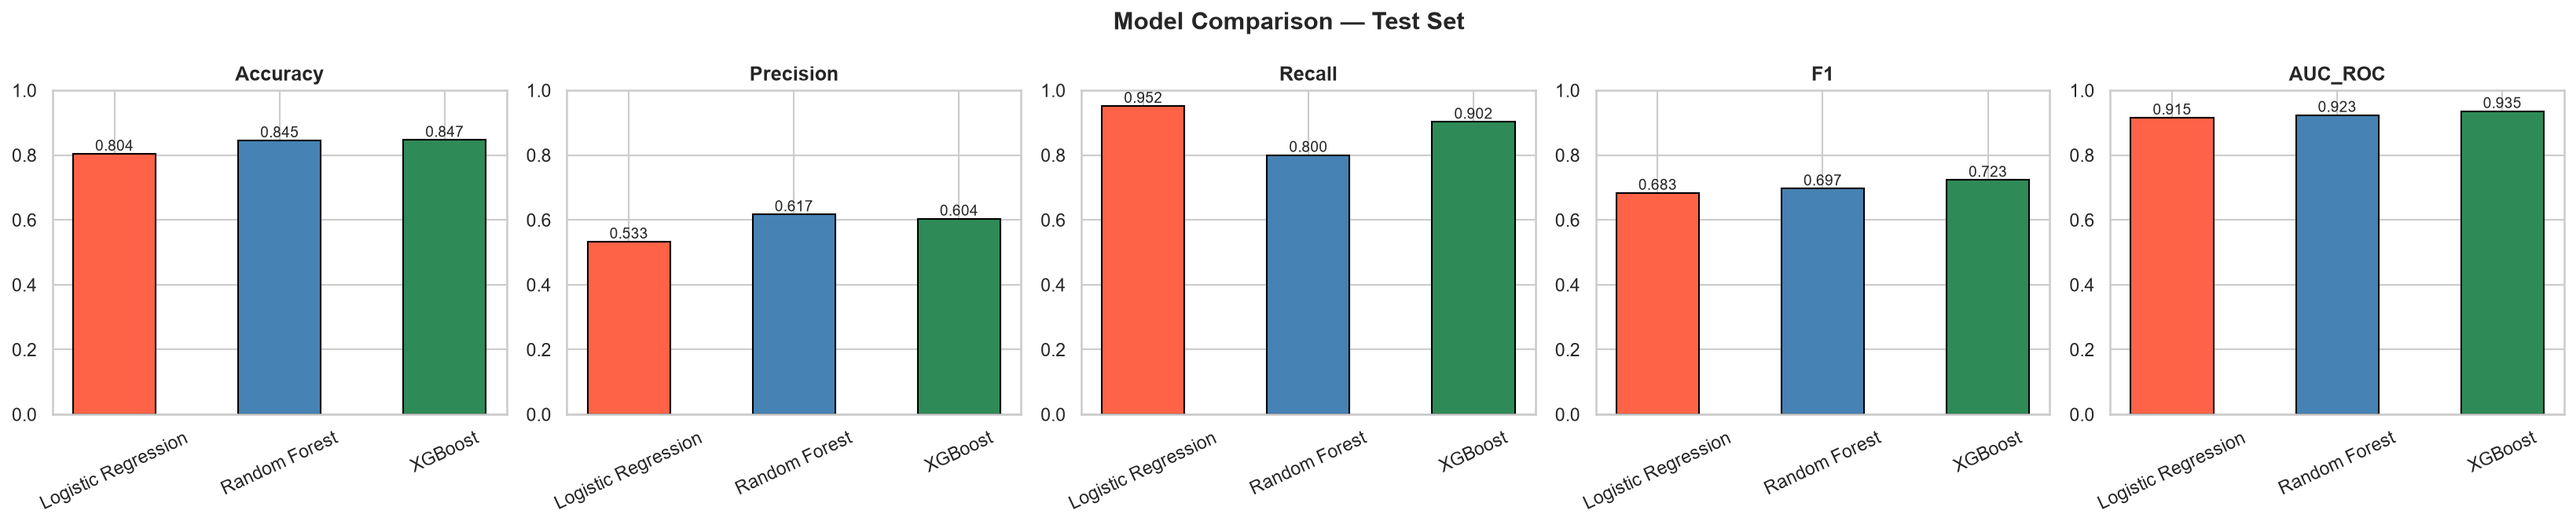
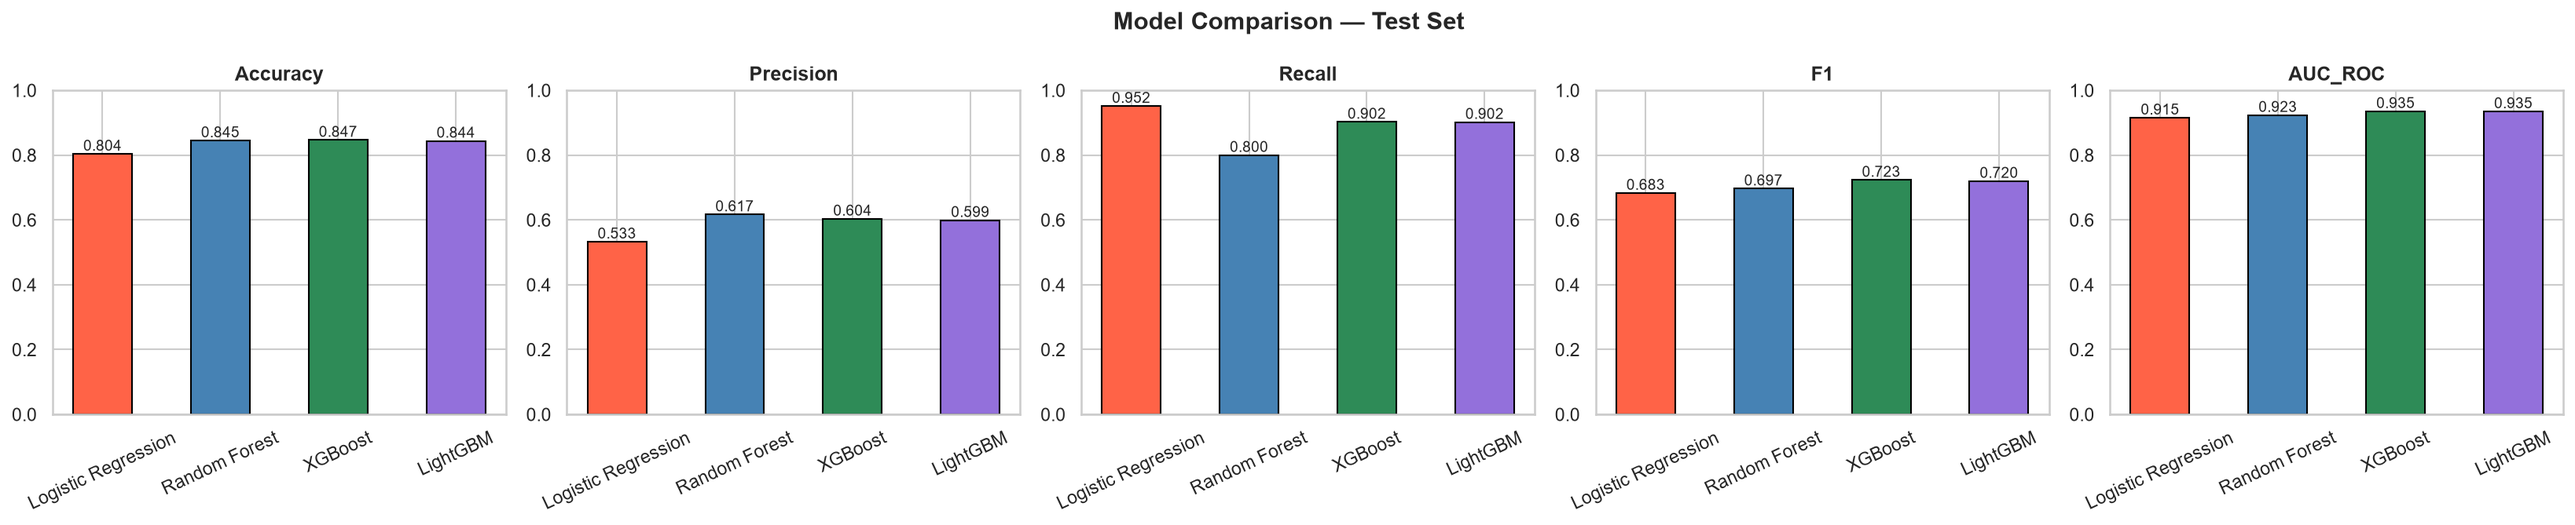
Feature: add LightGBM as 4th model for comparison
Trains LGBMClassifier on the same X_train_scaled/y_train split used by
the other 3 models, evaluates it via the existing evaluate_model(), and
includes it in best-model selection by AUC-ROC. Model comparison chart
and ROC curve now render all 4 models. Adds lightgbm to
model2_requirements.txt and refreshes run_results.txt with the latest
run output.

diff --git a/model2_loan_default_prediction.py b/model2_loan_default_prediction.py
@@ -19,6 +19,7 @@ from sklearn.preprocessing import StandardScaler
 from sklearn.linear_model import LogisticRegression
 from sklearn.ensemble import RandomForestClassifier
 from xgboost import XGBClassifier
+from lightgbm import LGBMClassifier
 from sklearn.metrics import (
     accuracy_score, precision_score, recall_score, f1_score,
     roc_auc_score, roc_curve, confusion_matrix, classification_report
@@ -171,10 +172,20 @@ xgb_clf.fit(X_train_scaled, y_train)
 y_pred_xgb = xgb_clf.predict(X_test_scaled)
 y_proba_xgb = xgb_clf.predict_proba(X_test_scaled)[:, 1]
 
+# Model 4: LightGBM Classifier — class_weight handles imbalance
+lgbm_clf = LGBMClassifier(
+    n_estimators=300, max_depth=6, learning_rate=0.1,
+    class_weight='balanced', random_state=42, n_jobs=-1, verbose=-1
+)
+lgbm_clf.fit(X_train_scaled, y_train)
+y_pred_lgbm = lgbm_clf.predict(X_test_scaled)
+y_proba_lgbm = lgbm_clf.predict_proba(X_test_scaled)[:, 1]
+
 results = []
 results.append(evaluate_model(y_test, y_pred_lr, y_proba_lr, "Logistic Regression"))
 results.append(evaluate_model(y_test, y_pred_rf, y_proba_rf, "Random Forest"))
 results.append(evaluate_model(y_test, y_pred_xgb, y_proba_xgb, "XGBoost"))
+results.append(evaluate_model(y_test, y_pred_lgbm, y_proba_lgbm, "LightGBM"))
 
 results_df = pd.DataFrame(results).set_index("Model")
 print("\n📊 Final Model Comparison:")
@@ -186,7 +197,8 @@ print(f"\n🏆 Best model by AUC-ROC: {best_model_name}")
 
 model_map = {"Logistic Regression": (log_reg, y_pred_lr, y_proba_lr),
              "Random Forest": (rf_clf, y_pred_rf, y_proba_rf),
-             "XGBoost": (xgb_clf, y_pred_xgb, y_proba_xgb)}
+             "XGBoost": (xgb_clf, y_pred_xgb, y_proba_xgb),
+             "LightGBM": (lgbm_clf, y_pred_lgbm, y_proba_lgbm)}
 best_model, y_pred_best, y_proba_best = model_map[best_model_name]
 
 print("\nClassification Report (Best Model):")
@@ -270,7 +282,7 @@ print("=" * 60)
 
 # Model comparison chart
 fig, axes = plt.subplots(1, 5, figsize=(22, 4.5))
-colors = ['tomato', 'steelblue', 'seagreen']
+colors = ['tomato', 'steelblue', 'seagreen', 'mediumpurple']
 for ax, metric in zip(axes, ['Accuracy', 'Precision', 'Recall', 'F1', 'AUC_ROC']):
     vals = results_df[metric]
     bars = ax.bar(vals.index, vals.values, color=colors[:len(vals)], edgecolor='black', width=0.5)
